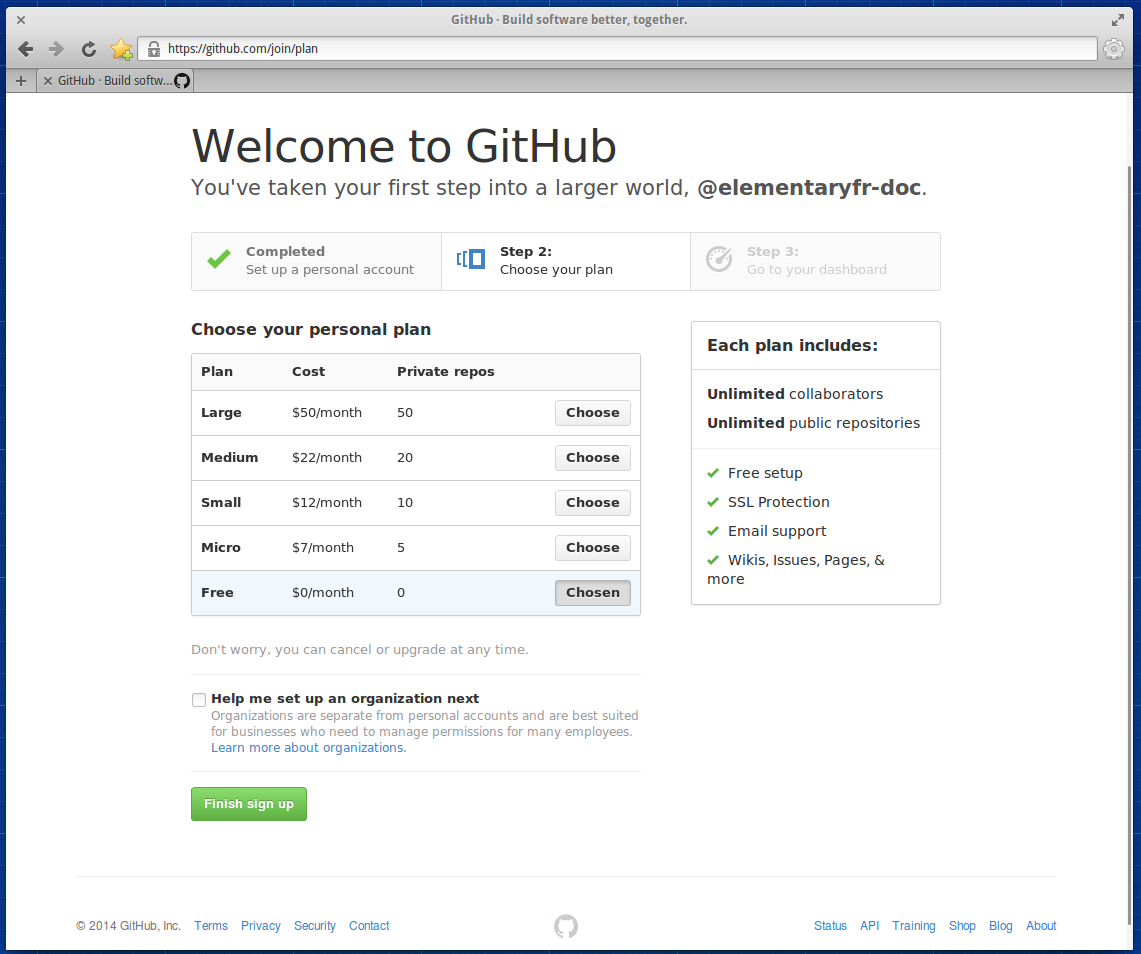
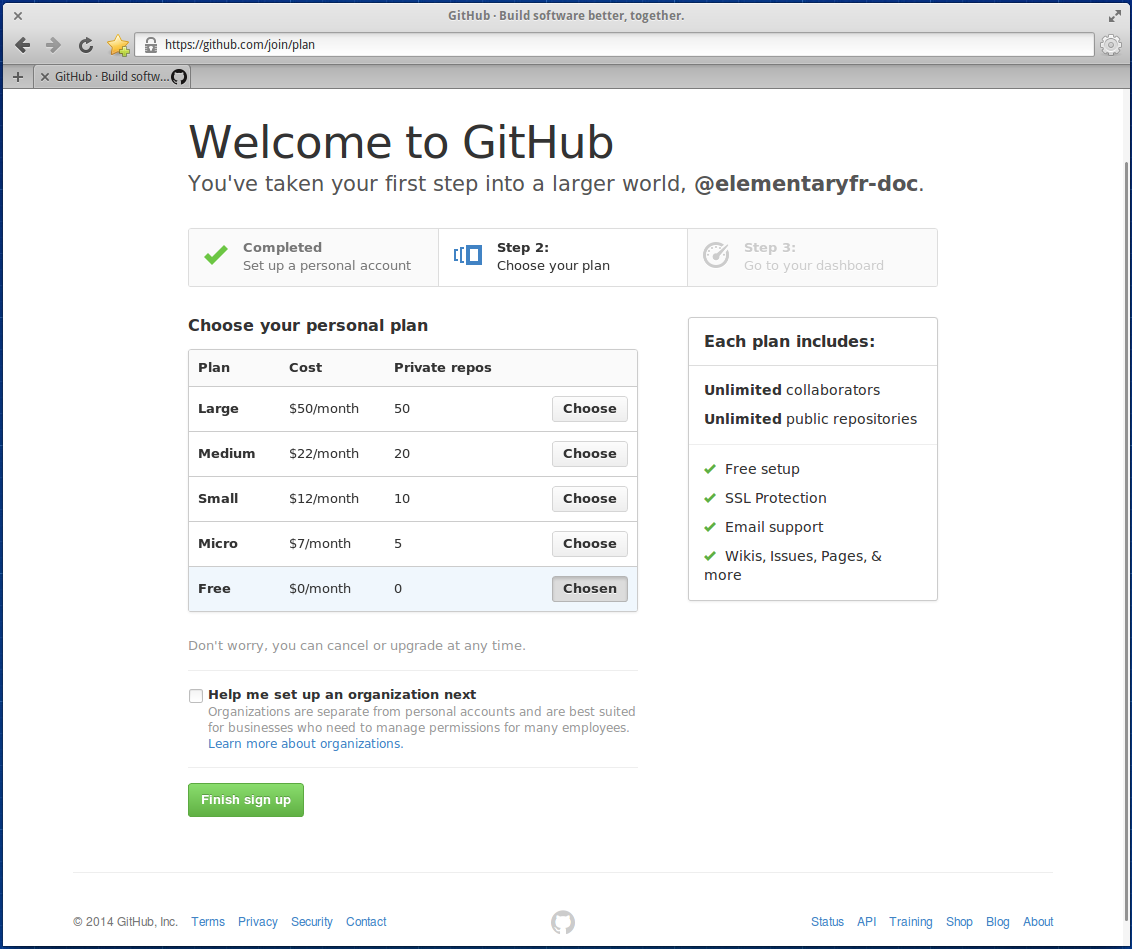
Rognage de photo

diff --git a/source/mise-en-route.rst b/source/mise-en-route.rst
@@ -155,7 +155,7 @@ Ajout de la clef sur Github
 
 De la manière, aller sur la page suivante: https://github.com/settings/ssh
 
-Une fois dessus, un click sur le bouton "Add SSH Keay" va vous permettre
+Une fois dessus, un click sur le bouton "Add SSH Key" va vous permettre
 d'ajouter votre clef.
 
 .. figure:: _static/mise-en-route/github-ssh-key.png
